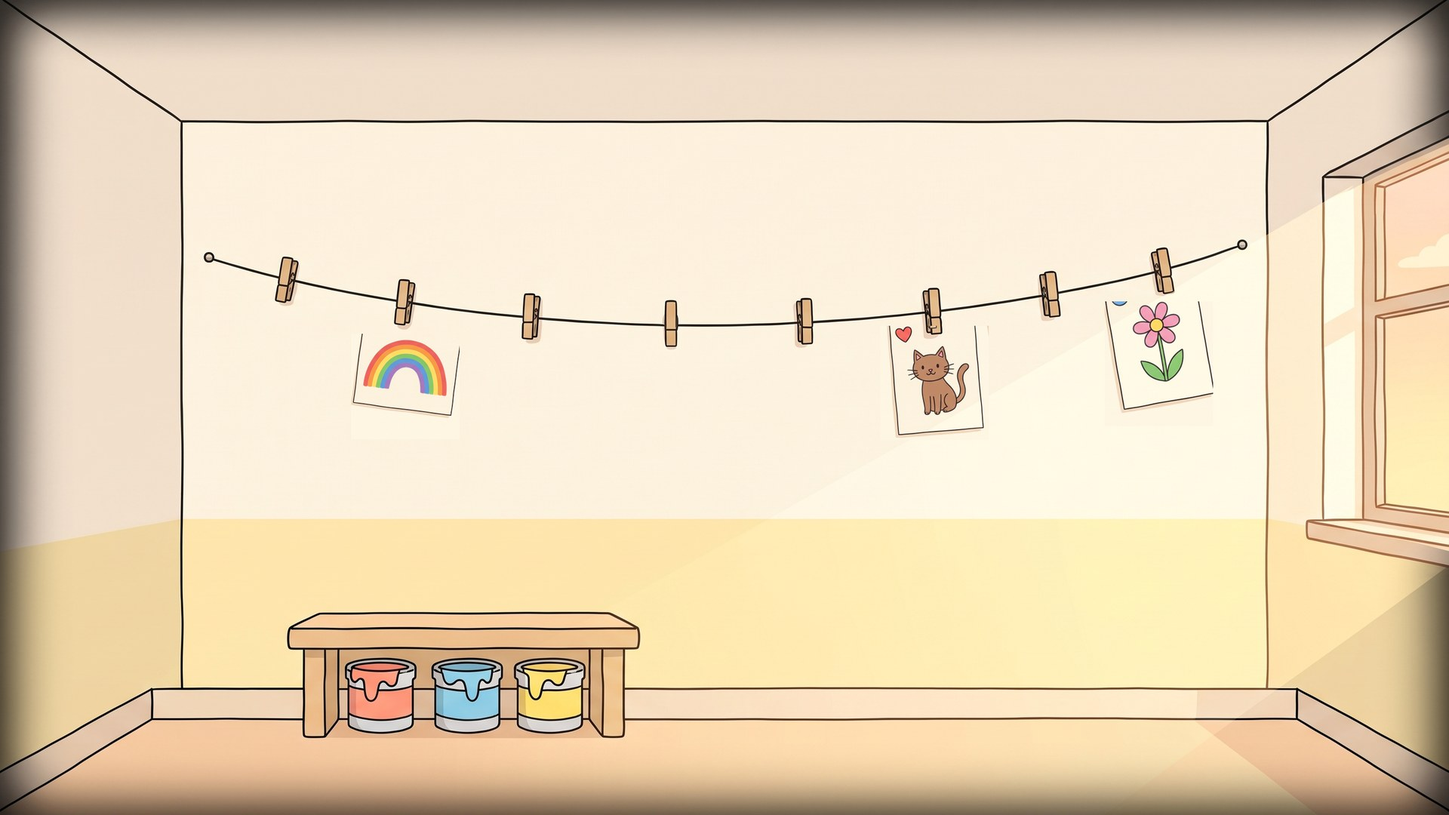
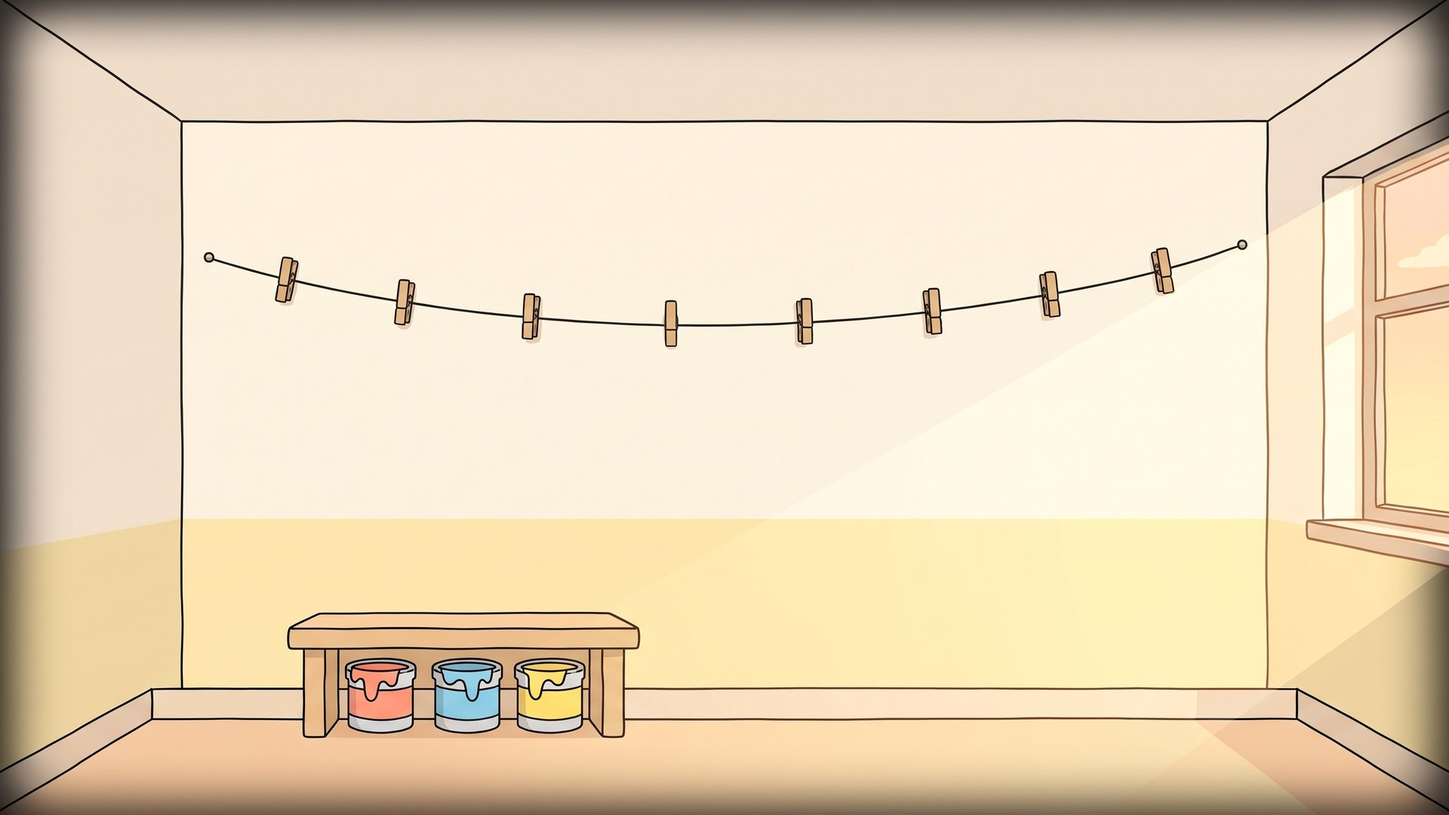
Living background: Captain swims, Nutmeg and Peanut breathe, rain on the flat's windows, steam, balloons and paintings stir
A layer's idle movement (swim, breathe, sway) or code-drawn weather (rain, steam) is redrawn by one gentle loop while the
room is in view, resting under close-ups, the menu, a hidden tab and reduced motion. Captain's drawn fish is painted out of
the tank wall; Zaina's three other paintings become cut-outs on the line.

Claude-Session: https://claude.ai/code/session_01EfdGHqbt9UMLzVmVXYp5s9

diff --git a/next/landscape/index.html b/next/landscape/index.html
@@ -492,7 +492,7 @@ button{font:inherit;color:inherit;cursor:pointer}
 
 <script>
 'use strict';
-const BUILD = '2026-09-30l';
+const BUILD = '2026-09-30m';
 const $ = id => document.getElementById(id);
 
 /* ---------- sizing: the scene fills the screen in landscape, inventory strip under it ---------- */
@@ -544,7 +544,7 @@ function makeLayer(L){
   const st = {img:null, L, anim:null, t0:0}; layerState.set(c, st);
   if (L.inside) preload(L.inside).then(im => { st.inside = im; });
   if (L.draw){ /* drawn by code rather than a picture: a stand-in size, the drawing happens in drawLayer */
-    st.img = {naturalWidth:300, naturalHeight:300}; c.width = Math.round(300*(1+2*PX)); c.height = Math.round(300*(1+PY+PB)); drawLayer(c, 0); return c; }
+    const ratio = (L.h/L.w)*(9/16); st.img = {naturalWidth:300, naturalHeight:Math.round(300*ratio)}; c.width = Math.round(300*(1+2*PX)); c.height = Math.round(300*ratio*(1+PY+PB)); drawLayer(c, 0); return c; }
   preload(L.src).then(img => { if (!img.naturalWidth) return; st.img = img; c.width = Math.round(img.naturalWidth*(1+2*PX)); c.height = Math.round(img.naturalHeight*(1+PY+PB)); drawLayer(c, 0); });
   return c;
 }
@@ -553,7 +553,7 @@ function toCanvas(c, L, px, py){ const [PX, PY, PB] = pads(L); return [ (px - (L
 function drawLayer(c, t){
   const st = layerState.get(c); if (!st || !st.img || !st.img.naturalWidth) return;
   const [PX, PY, PB] = pads(st.L);
-  const {img, L, anim} = st, ctx = c.getContext('2d'), W = img.naturalWidth, H = img.naturalHeight, ox = W*PX, oy = H*PY;
+  const {img, L, anim} = st, ctx = c.getContext('2d'), W = img.naturalWidth, H = img.naturalHeight, ox = W*PX, oy = H*PY, idleT = performance.now()/1000;
   ctx.clearRect(0, 0, c.width, c.height);
   ctx.save();
   if (L.clipBottom != null){ const yClip = toCanvas(c, L, 0, L.clipBottom)[1]; ctx.beginPath(); ctx.rect(0, 0, c.width, yClip); ctx.clip(); }
@@ -604,6 +604,19 @@ function drawLayer(c, t){
     if (st.open || (L.openWhen && L.openWhen())){ ctx.save(); ctx.translate(ox, oy); ctx.scale(0.12, 1); ctx.drawImage(img, 0, 0); ctx.fillStyle = 'rgba(0,0,0,.25)'; ctx.fillRect(0, 0, W, H); ctx.restore(); return; }
     if (L.kind === 'blocks'){ if (S.toppled){ drawBlocks(9); return; } blockShadow(ox + W/2, oy + H - H*0.01, W, 1); }
     if (L.kind === 'drawer' && S.drawerOpen){ drawDrawer(1); return; }
+    if (L.draw === 'rain'){ drawRain(ctx, idleT, ox, oy, W, H, L); return; }
+    if (L.draw === 'steam'){ drawSteam(ctx, idleT, ox, oy, W, H); return; }
+    if (L.idle && !reduceMotion){ /* living background: a slow movement that never stops (4, backlog 16) */
+      const ph = L.phase || 0;
+      if (L.idle === 'swim'){ /* a slow wander across the box, turning at each end, with a little bob; the box is the water, the picture a fraction of it */
+        const P = L.period || 11, u = ((idleT + ph)/P) % 1, k = u < 0.5 ? u*2 : 2 - u*2, e = k*k*(3 - 2*k), facingLeft = u >= 0.5;
+        const fw = W*(L.size || 0.45), fh = fw*(H/W)*(16/9)*(L.w/L.h), x = ox + fw/2 + (W - fw)*e /* the picture keeps its own proportions inside the box */, y = oy + H*(L.depth ?? 0.45) + H*0.035*Math.sin(2*Math.PI*idleT/2.7 + ph);
+        ctx.save(); ctx.translate(x, y); if (facingLeft) ctx.scale(-1, 1); ctx.rotate(0.05*Math.sin(2*Math.PI*idleT/1.9 + ph)); ctx.drawImage(img, -fw/2, -fh/2, fw, fh); ctx.restore(); return; }
+      if (L.idle === 'breathe'){ const k = 1 + (L.amount || 0.012)*Math.sin(2*Math.PI*idleT/(L.period || 2.8) + ph); ctx.save(); ctx.translate(ox + W/2, oy + H); ctx.scale(1, k); ctx.drawImage(img, -W/2, -H); ctx.restore(); return; }
+      if (L.idle === 'sway'){ /* hung from the top: a slow stir in a draught */
+        const a = (L.amount || 0.035)*Math.sin(2*Math.PI*idleT/(L.period || 3.4) + ph) + (L.amount || 0.035)*0.4*Math.sin(2*Math.PI*idleT/(L.period || 3.4)*2.3 + ph*1.7);
+        ctx.save(); ctx.translate(ox + W/2, oy + (L.pivot === 'bottom' ? H : 0)); ctx.rotate(a); ctx.drawImage(img, -W/2, L.pivot === 'bottom' ? -H : 0); ctx.restore(); return; }
+    }
     ctx.drawImage(img, ox, oy);
     if (L.over) L.over(ctx, ox, oy, W, H);
   };
@@ -746,6 +759,35 @@ function drawLayer(c, t){
   finish();
   ctx.restore();
 }
+/* rain on a window: faint streaks running down the pane, a few at a time, with the odd drip that hesitates; the pane is the layer's box */
+function drawRain(ctx, t, ox, oy, W, H, L){
+  const n = L.count || 14; ctx.save(); ctx.lineCap = 'round';
+  for (let i = 0; i < n; i++){ const seed = (i*7919 % 1000)/1000, seed2 = (i*104729 % 1000)/1000, speed = 0.55 + seed2*0.5, len = H*(0.08 + seed*0.14);
+    const u = ((t*speed/ (L.period || 4) + seed) % 1), x = ox + W*(0.04 + ((seed*0.92 + i/n) % 0.92)), y = oy - len + (H + len)*u;
+    ctx.globalAlpha = 0.22*(1 - u*0.5); ctx.strokeStyle = 'rgba(230,240,250,1)'; ctx.lineWidth = Math.max(1, W*0.006); ctx.beginPath(); ctx.moveTo(x, y); ctx.lineTo(x + W*0.006, y + len); ctx.stroke();
+    if (i % 4 === 0){ ctx.globalAlpha = 0.28; ctx.fillStyle = 'rgba(240,248,255,1)'; ctx.beginPath(); ctx.arc(x + W*0.006, y + len, Math.max(1.2, W*0.011), 0, Math.PI*2); ctx.fill(); } }
+  ctx.restore();
+}
+/* steam: three wisps rising from the bottom of the box and fading as they go */
+function drawSteam(ctx, t, ox, oy, W, H){
+  ctx.save(); ctx.lineCap = 'round'; ctx.strokeStyle = 'rgba(255,255,255,1)';
+  for (let i = 0; i < 3; i++){ const u = ((t/3.2 + i/3) % 1), x0 = ox + W*(0.25 + i*0.25), y = oy + H*(1 - u), sw = W*0.08*Math.sin(2*Math.PI*u*1.5 + i);
+    ctx.globalAlpha = 0.28*Math.sin(Math.PI*u); ctx.lineWidth = Math.max(1.5, W*0.05*(0.6 + u)); ctx.beginPath(); ctx.moveTo(x0, y + H*0.18); ctx.quadraticCurveTo(x0 + sw, y + H*0.09, x0 - sw*0.5, y); ctx.stroke(); }
+  ctx.restore();
+}
+/* the living background's own loop: the current view's idle layers are redrawn about twenty times a second while the room is
+   in view; it rests under a close-up, the menu, a hidden tab, and always under reduced motion */
+const reduceMotion = matchMedia('(prefers-reduced-motion:reduce)').matches;
+let idleFrame = null, idleLast = 0;
+function idleTick(now){
+  idleFrame = null; let any = false;
+  if (!reduceMotion && !document.hidden && $('closeup').hidden && $('menu').hidden){
+    if (now - idleLast > 45){ idleLast = now; layerState.forEach((st, c) => { const L = st.L; if (!c.isConnected || st.anim) return; if (L.idle || L.draw === 'rain' || L.draw === 'steam'){ any = true; drawLayer(c, 0); } }); }
+    else any = true;
+  } else { layerState.forEach(st => { if (st.L.idle || st.L.draw === 'rain' || st.L.draw === 'steam') any = true; }); }
+  if (any) idleFrame = requestAnimationFrame(idleTick);
+}
+function startIdle(){ if (!idleFrame && !reduceMotion) idleFrame = requestAnimationFrame(idleTick); }
 function tick(){
   let live = false; const now = performance.now();
   layerState.forEach((st, c) => {
@@ -794,6 +836,7 @@ function render(){
   layerState.clear();
   (LAYERS[v] || []).forEach(L => { if (L.hideWhen && L.hideWhen()) return; if (L.showWhen && !L.showWhen()) return; hots.appendChild(makeLayer(L)); });
   if (STAGE.overlays && STAGE.overlays[v]) hots.appendChild(STAGE.overlays[v]()); /* things the game draws over the picture, so wall and close-up agree */
+  startIdle();
   /* bigger targets first, so a small thing on a big thing (the mug on the desk) stays tappable */
   [...HOTS[v]].sort((a, b) => b.w*b.h - a.w*a.h).forEach(h => {
     if (h.hideWhen && h.hideWhen()) return;
@@ -1317,10 +1360,10 @@ function boot(){
   playSplash().then(showTitle);
 }
 </script>
-<script src="stages/school.js?v=2026-09-30l"></script>
-<script src="stages/packing.js?v=2026-09-30l"></script>
-<script src="stages/eschool.js?v=2026-09-30l"></script>
-<script src="stages/zschool.js?v=2026-09-30l"></script>
+<script src="stages/school.js?v=2026-09-30m"></script>
+<script src="stages/packing.js?v=2026-09-30m"></script>
+<script src="stages/eschool.js?v=2026-09-30m"></script>
+<script src="stages/zschool.js?v=2026-09-30m"></script>
 <script>boot();</script>
 </body>
 </html>

diff --git a/next/landscape/stages/eschool.js b/next/landscape/stages/eschool.js
@@ -19,12 +19,13 @@ const HOTS = {
   p1:[
     {id:'e_board', l:31, t:32, w:38, h:38, label:'Whiteboard: GOODBYE 2P!', sound:'tap'},
     {id:'e_desk', l:72, t:70, w:25, h:24, label:'Miss Okafor’s desk', sound:'knock'},
+    {id:'e_balloons', l:69.5, t:53, w:8, h:19, label:'Balloons tied to the desk', sound:'leaf', anim:'swing', layer:'balloons'},
     {id:'e_mug', l:73.5, t:66, w:5, h:7, label:'Miss Okafor’s mug', sound:'tap'},
     {id:'e_pencils', l:91, t:64, w:4.5, h:8, label:'Pot of pencils', sound:'tap'},
     {id:'e_card', l:79, t:55, w:9, h:17, label:'The goodbye card on the desk', sound:'paper', anim:'lift', layer:'card', key:true}],
   p2:[
     {id:'e_window', l:15, t:20, w:29, h:44, label:'Window', sound:'tap'},
-    {id:'e_tank', l:17, t:60, w:11, h:16, label:'Captain, the class goldfish', sound:'leaf', key:true},
+    {id:'e_tank', l:17, t:60, w:11, h:16, label:'Captain, the class goldfish', sound:'leaf', key:true, anim:'wobble', layer:'fish'},
     {id:'e_castle', l:30, t:62, w:10, h:14, label:'Sandcastle ornament', sound:'tap'},
     {id:'e_run', l:54, t:29, w:33, h:38, label:'The marble run', sound:'knock', key:true},
     {id:'e_bell', l:77.5, t:66.5, w:6, h:10, label:'The little bell at the bottom of the run', sound:'tick'},
@@ -64,8 +65,11 @@ const HOTS = {
 };
 const cog = (n, l, t) => ({src:A+'layer-cog.png', group:'cog'+n, l, t, w:2, h:3.56, hideWhen:() => S.cogs.includes(n)});
 const LAYERS = {
-  p1:[{src:A+'layer-card.png', group:'card', l:80.5, t:57.5, w:5.6, h:15.4, shadow:.5, hideWhen:() => S.done}],
-  p2:[{src:A+'layer-straight.png', group:'straight', l:58.5, t:74.2, w:7, h:6.1, shadow:.4, hideWhen:() => got('straight') || placed('straight')}],
+  p1:[{src:A+'layer-card.png', group:'card', l:80.5, t:57.5, w:5.6, h:15.4, shadow:.5, hideWhen:() => S.done},
+      {src:A+'layer-balloons.png', group:'balloons', l:70.5, t:54.5, w:6, h:16.5, idle:'sway', pivot:'bottom', amount:.04, period:4.2}],
+  /* Captain: his box is the water in the tank; he wanders across it and back, behind the tank's glass */
+  p2:[{src:A+'layer-fish.png', group:'fish', l:17.8, t:64.6, w:7.4, h:8.2, idle:'swim', size:.46, depth:.5, period:12, glass:[17.3, 60.5, 8.2, 14.6], tone:'saturate(.85) brightness(.96)'},
+      {src:A+'layer-straight.png', group:'straight', l:58.5, t:74.2, w:7, h:6.1, shadow:.4, hideWhen:() => got('straight') || placed('straight')}],
   p4:[cog(1, 62.5, 52.7)],
   g1:[cog(2, 51.8, 59.5)],
   g2:[{src:A+'layer-curve.png', group:'curve', l:33, t:64, w:6, h:12.5, shadow:.4, hideWhen:() => got('curve') || placed('curve')}],
@@ -205,6 +209,7 @@ const USES = {
 function act(id){
   switch(id){
     case 'e_board': say('GOODBYE 2P! in five colours. Miss Okafor did the balloons.'); break;
+    case 'e_balloons': say('Three balloons, tied to the desk leg. They bob when the door opens.'); break;
     case 'e_desk': say('Miss Okafor’s desk, tidy for once. ' + (S.done ? '' : 'Your card is on it.')); break;
     case 'e_mug': say('WORLD’S OKAYEST TEACHER, says the mug. She thinks it’s funny.'); break;
     case 'e_pencils': say('Pencils, sharpened. Twenty-nine of them, one each.'); break;

diff --git a/next/landscape/stages/packing.js b/next/landscape/stages/packing.js
@@ -86,19 +86,20 @@ const HOTS = {
 const moth = (n, l, t) => ({src:A+'layer-moth.png', group:'moth'+n, l, t, w:2.4, h:2.63, hideWhen:() => S.moths.includes(n)});
 /* the things packed so far are drawn inside the open suitcase on the bed */
 const inCase = (key, l, t, w, h) => ({src:A+'layer-'+key+'.png', group:'in'+key, l, t, w, h, shadow:.5, showWhen:() => packed(key)});
+const rain = (l, t, w, h) => ({draw:'rain', group:'rain', l, t, w, h, count:12});
 const LAYERS = {
   b1:[inCase('jumper', 45.5, 60.5, 4.5, 9.85), inCase('passports', 44, 65.5, 5, 7.1), inCase('torch', 49.5, 64.5, 6.5, 7.8), inCase('present', 53.5, 66, 3.4, 6.5)],
   b2:[{src:A+'layer-list.png', group:'list', l:27.5, t:38, w:8, h:19, lit:.5}],
-  b3:[moth(2, 33.5, 18.5), {src:A+'layer-pencilcase.png', group:'pencilcase', l:53.5, t:65.5, w:6.5, h:5.4, shadow:.5, hideWhen:() => got('tape') || S.tapeGone}],
+  b3:[rain(35, 19, 31, 43), moth(2, 33.5, 18.5), {src:A+'layer-pencilcase.png', group:'pencilcase', l:53.5, t:65.5, w:6.5, h:5.4, shadow:.5, hideWhen:() => got('tape') || S.tapeGone}],
   b4:[moth(1, 57, 17.6), {src:A+'layer-jumper.png', group:'jumper', l:52, t:30.5, w:7, h:15.3, hideWhen:() => got('jumper') || packed('jumper')}],
-  l1:[{src:A+'layer-key.png', group:'key', l:73.4, t:34.8, w:2.8, h:7.97, hideWhen:() => S.keyTaken},
+  l1:[rain(34, 13, 33, 42), {src:A+'layer-key.png', group:'key', l:73.4, t:34.8, w:2.8, h:7.97, hideWhen:() => S.keyTaken},
       {src:A+'layer-paper.png', group:'paper', l:60, t:46, w:2.4, h:19.7, shadow:.5, hideWhen:() => S.paperGone}],
   l2:[{src:A+'layer-snowglobe.png', group:'snowglobe', l:20, t:32.3, w:5.5, h:11.2, shadow:.6}, {src:A+'layer-orchid.png', group:'orchid', l:61, t:30.6, w:5, h:12.95, shadow:.5}, moth(3, 33, 91.5)],
   l4:[moth(4, 59.8, 44)],
-  k1:[{src:A+'layer-mum.png', group:'mum', l:40, t:31, w:17, h:61.8, shadow:.7}],
+  k1:[{draw:'steam', group:'steam', l:30, t:44, w:6, h:9}, {src:A+'layer-mum.png', group:'mum', l:40, t:31, w:17, h:61.8, shadow:.7}],
   k2:[moth(5, 47, 23.4), {src:A+'layer-postcard.png', group:'postcard', l:44, t:52, w:7, h:9.7},
       {src:A+'layer-drawing.png', group:'drawing', l:45.5, t:64, w:9, h:13.5, over:drawSymbols}],
-  k4:[moth(6, 77, 24.6)]
+  k4:[rain(41, 29, 19, 45), moth(6, 77, 24.6)]
 };
 const EXTRA = {living:[A+'closeup-hooks.jpg', A+'closeup-drawer.jpg', A+'closeup-drawer-open.jpg', A+'layer-drawerfront.png', A+'closeup-fort.jpg', A+'closeup-infort.jpg'], kitchen:[A+'closeup-jars.jpg']};
 

diff --git a/next/landscape/stages/zschool.js b/next/landscape/stages/zschool.js
@@ -40,8 +40,11 @@ const LAYERS = {
       /* once put away, her things show inside her cubby */
       {src:A+'layer-painting.png', group:'inpainting', l:35.8, t:75.6, w:3.4, h:7.6, showWhen:() => put('painting')},
       {src:A+'layer-bottle.png', group:'inbottle', l:33.4, t:77, w:1.5, h:6.4, shadow:.4, showWhen:() => put('bottle')}],
-  z2:[{src:A+'layer-painting.png', group:'painting', l:42.3, t:40.5, w:7.5, h:16.7, hideWhen:() => got('painting') || put('painting')}],
-  z4:[{src:A+'layer-peanut.png', group:'peanut', l:16.5, t:64.5, w:7.2, h:14.1, shadow:.6}, {src:A+'layer-misslin.png', group:'misslin', l:70, t:57.3, w:6, h:30.7, shadow:.5}]
+  z2:[{src:A+'layer-painting-rainbow.png', group:'p1', l:24.3, t:41, w:7.5, h:12.9, idle:'sway', phase:0.4},
+      {src:A+'layer-painting.png', group:'painting', l:42.3, t:40.5, w:7.5, h:16.7, idle:'sway', phase:1.9, hideWhen:() => got('painting') || put('painting')},
+      {src:A+'layer-painting-cat.png', group:'p3', l:60.8, t:40, w:7.5, h:13.9, idle:'sway', phase:3.1},
+      {src:A+'layer-painting-flower.png', group:'p4', l:76.3, t:37, w:7.5, h:15.2, idle:'sway', phase:4.6}],
+  z4:[{src:A+'layer-peanut.png', group:'peanut', l:16.5, t:64.5, w:7.2, h:14.1, shadow:.6, idle:'breathe', amount:.014, period:3.2}, {src:A+'layer-misslin.png', group:'misslin', l:70, t:57.3, w:6, h:30.7, shadow:.5}]
 };
 const EXTRA = {kindy:[A+'closeup-bottles.jpg', A+'closeup-paintings.jpg', A+'closeup-instruments.jpg', A+'poster.jpg', A+'layer-sticker.png']};
 /* Zaina's mark and her portrait, drawn on her cubby; the other cubbies get their marks */

diff --git a/next/landscape/stages/school.js b/next/landscape/stages/school.js
@@ -162,7 +162,7 @@ const LAYERS = {
   c4:[
     {src:'../art/classroom/layer-envelope.png', group:'envelope', l:50.5, t:66.5, w:6.5, h:5.5, hideWhen:() => S.got.includes('envelope')},
     /* the hamster lives inside the cage: it is clipped to the cage and the cage's glass is drawn faintly over it */
-    {src:'../art/classroom/layer-hamster.png', group:'hamster', l:68.1, t:56.3, w:3.9, h:5.5, glass:[67.3, 52.2, 10.2, 9.3], shadow:.5, tone:'saturate(.72) brightness(.94) contrast(.92)'},
+    {src:'../art/classroom/layer-hamster.png', group:'hamster', l:68.1, t:56.3, w:3.9, h:5.5, glass:[67.3, 52.2, 10.2, 9.3], shadow:.5, tone:'saturate(.72) brightness(.94) contrast(.92)', idle:'breathe', amount:.02, period:2.4},
     {src:'../art/classroom/layer-backpack.png', group:'backpack', l:58.2, t:78.5, w:7, h:15.3, shadow:.8}],
   /* corridor */
   h1:[

diff --git a/CLAUDE.md b/CLAUDE.md
@@ -35,8 +35,8 @@ The owner is a non-technical but AI-savvy builder working from a Chromebook. Exp
 - `icon-192.png`, `icon-512.png` — moth icon (also used as maskable).
 - `next/index.html` — the children's version being built, not yet what players get. It opens on the choose-a-child screen (with the fiction notice under "About this game"). All nine Part 1 stages are playable: Mary, Elliot and Zaina each have last day of school, packing day and the flight. The engine is in this file, with Mary's school and packing stages; the rest live in `next/stages/`. Each stage is one object (for example `STAGE_SCHOOL`, or the `stage` passed to `registerStage`) with its `rooms` (each room's views in turning order), `doors` (door → room and view you arrive at), `start`, `items`, `uses`, `fresh` state, `draw`, `act`, `hints`, `hinter`, optional `hintStyle:'point'` (for Zaina: the moth turns to the target, pulses it and says one short line) and `ending`; the engine handles turning, doors, the inventory, hints and endings. `STORYLINES` lists each child's three stages; saves are per child in localStorage (`mothhouse.next.v1`). Each view is a `<g class="view" id="v-…">` in the one SVG; hotspot `data-id`s must be unique across all stages (school ones start with `s_`, Elliot's `e_`, Zaina's `z_`, the flight's `fl_`). A hotspot with `data-stage="…"` only shows in that stage, which is how the shared flat and cabin carry different children's things. Close-ups are overlays inside `.stage`. Keep hotspots away from the bottom corners, where the turn arrows sit. It doesn't register the service worker. When the owner approves it, it replaces the live game.
 - `next/stages/mary-flight.js`, `elliot.js`, `zaina.js` — stage plugins: `registerStage(key, {css, views, closeups, boxes, stage, setup})`. The engine injects `views` into the SVG, `closeups` before `#endUI`, merges `boxes` into `BOXES`, then runs `setup()` after the bookcases are drawn (use it to add hotspots to shared views).
-- `next/landscape/index.html` — the landscape engine (no rooms of its own; each stage is a plugin in `next/landscape/stages/` that calls `registerStage`, see `next/PLAYBOOK.md` 4d). `stages/school.js` is Mary's last day of school, `stages/packing.js` her packing day; the school's last-bell card leads into packing on the same save. `stages/eschool.js` is Elliot's last day (Classroom 2P and the playground: the marble run's three pieces, the jumper in lost property, three hidden cogs) and `stages/zschool.js` Zaina's party day (one room, her yellow star: bottle, painting, the goodbye song, Miss Lin's sticker); a stage names its `child`, Zaina's uses `hintStyle:'point'` (the moth flies to the next thing: `pointNext`) and speaks every tap line (`line`, its `lines` map, `miss`); see `next/PLAYBOOK.md` 4k. The cog's Family tab switches child mid-game as a story beat (`switchChild`, `meanwhileCard`, each stage's `meanwhile` line; `next/PLAYBOOK.md` 4l). The game opens with the OG Entertainment start-up (`#splash`, drawn in CSS), then the title screen (`#title`: Continue, New game, sound, About with the fiction notice) and the choose-a-child screen (`#choose`, cards from `CHILDREN`, each child's `first` stage). Saves are per child (`keyFor(child)`) with a last-played pointer. For testing, `?stage=packing` (or any stage key: `eschool`, `zschool`) on the address starts that stage directly as its child, skipping the start-up and title; give the owner a link with it whenever a later stage changes. The notes below describe the engine and the school stage. A 16:9 scene, small turn arrows halfway up each side, the inventory as ten slots under the scene, close-ups brought forward over the blurred room, a "turn your phone" screen in portrait. Tap targets are picture percentages in `HOTS`; `sound` names the tap effect and `anim` + `layer` name a movement and the cut-out group it moves. Moving things are cut-outs in `LAYERS` (per view: `layer-*.png`, placed in picture percentages, drawn on a canvas each; the wall pictures have them removed). The animator (`drawLayer`) bends, swings, lifts, hops, wobbles or pops a cut-out in slices for a moment. Sounds are made in the browser with Web Audio and start after the first tap; music plays the `TRACK` mp3 (Lyria), with the composed music-box waltz (`TUNE`) as fallback; both switch off from the menu. A layer's `shadow` draws a soft contact shadow under it (anything standing on a surface gets one, so nothing floats); `glass` clips it inside a box and draws the wall's glass faintly over it (Nutmeg in his cage). The timetable on the wall is drawn by `wallTimetable()` from the real grid, so wall and close-up always agree. Every picture is preloaded before the room opens. Cut-out boxes must keep the picture's own proportions (h = w × pictureH/pictureW × 16/9) or the cut-out is squashed. Inventory icons are pictures in `next/art/classroom/item-*.png` (generated on white, background keyed out). Rooms are in `ROOMS` (views in turning order; a long room lists its `long` pairs, two views of one wall that pan instead of turn), walls in `WALLS`, doors in `DOORS` (door hotspot → room and the view you arrive facing, away from the door). All five rooms of Mary's school stage are built: classroom, corridor (lockers; library doors; notice board and the open doorway to the hall; the open doorways to 5H and the art room), library (a square room: `ln` Science+Music, `le` window and storytime chair, `ls` entrance and desk, `lw` Art, trolley and Stories), art room (`an` drying rack with the moth painting, `ae` paint pots and the padlocked cupboard, `as` doorway and clay animals, `aw` sink, brush jar and three aprons) and hall (`hn` stage with the chime bars and the little drawer, `he` STEM cabinet with the star padlock, `hs` doors and bench, `hw` indoor playground with the block stack and slide). Three parallel trails (see `next/PLAYBOOK.md` 4c): star key from the apron → STEM padlock → slip; beater from under the blocks → chime bars in the order on the music page → stage drawer → slip; moth's three stripes → colour dials on the paint cupboard → slip. Then the timetable, the locker and the last-bell ending, plus the bonus riddle. Items are picked up in hand and used by tapping where they go (`USES`). The moth button (or Nutmeg) opens Mary's notebook (`openNotebook`): the riddles as a to-do list with progress, tap one for that trail's tiered hint, plus a "Noticed" line that records clues seen (`S.seen`). A long press on the room, or "Show what I can tap" in the cog's panel, glows every hotspot for a moment (`reveal`). The cog (`#menuBtn` in a room, `#tMenu` on the title) opens one tabbed panel (`openMenu`): settings with separate music and effects volumes (`vol`, `setVolume`), help with the resets behind `confirmThen`, and about. `play.js` in the session scratchpad played the whole puzzle by script; keep a script like it for every stage. Saves are keyed by build (`mothhouse.landscape.<BUILD>`).
-- `next/art/elliot/` — Elliot's stage 1: walls `p1`–`p4` (classroom) and `g1`–`g4` (playground), cut-outs (`layer-straight/curve/zigzag/card/jumper/peg/cog/balloons.png`), close-ups (`closeup-run/lost/pegs/chalk.jpg`). `next/art/zaina/` — Zaina's stage 1: walls `z1`–`z4`, cut-outs (`layer-bottle/painting/sticker/peanut/misslin.png`), close-ups (`closeup-bottles/paintings/instruments.jpg`, `poster.jpg`). Prompts in `next/art/classroom/PROMPTS.md`.
+- `next/landscape/index.html` — the landscape engine (no rooms of its own; each stage is a plugin in `next/landscape/stages/` that calls `registerStage`, see `next/PLAYBOOK.md` 4d). `stages/school.js` is Mary's last day of school, `stages/packing.js` her packing day; the school's last-bell card leads into packing on the same save. `stages/eschool.js` is Elliot's last day (Classroom 2P and the playground: the marble run's three pieces, the jumper in lost property, three hidden cogs) and `stages/zschool.js` Zaina's party day (one room, her yellow star: bottle, painting, the goodbye song, Miss Lin's sticker); a stage names its `child`, Zaina's uses `hintStyle:'point'` (the moth flies to the next thing: `pointNext`) and speaks every tap line (`line`, its `lines` map, `miss`); see `next/PLAYBOOK.md` 4k. The cog's Family tab switches child mid-game as a story beat (`switchChild`, `meanwhileCard`, each stage's `meanwhile` line; `next/PLAYBOOK.md` 4l). The game opens with the OG Entertainment start-up (`#splash`, drawn in CSS), then the title screen (`#title`: Continue, New game, sound, About with the fiction notice) and the choose-a-child screen (`#choose`, cards from `CHILDREN`, each child's `first` stage). Saves are per child (`keyFor(child)`) with a last-played pointer. For testing, `?stage=packing` (or any stage key: `eschool`, `zschool`) on the address starts that stage directly as its child, skipping the start-up and title; give the owner a link with it whenever a later stage changes. The notes below describe the engine and the school stage. A 16:9 scene, small turn arrows halfway up each side, the inventory as ten slots under the scene, close-ups brought forward over the blurred room, a "turn your phone" screen in portrait. Tap targets are picture percentages in `HOTS`; `sound` names the tap effect and `anim` + `layer` name a movement and the cut-out group it moves. Moving things are cut-outs in `LAYERS` (per view: `layer-*.png`, placed in picture percentages, drawn on a canvas each; the wall pictures have them removed). The animator (`drawLayer`) bends, swings, lifts, hops, wobbles or pops a cut-out in slices for a moment; a layer's `idle` (`swim`, `breathe`, `sway`) or `draw:'rain'|'steam'` keeps it gently alive all the time (`idleTick`; see `next/PLAYBOOK.md` section 4). Sounds are made in the browser with Web Audio and start after the first tap; music plays the `TRACK` mp3 (Lyria), with the composed music-box waltz (`TUNE`) as fallback; both switch off from the menu. A layer's `shadow` draws a soft contact shadow under it (anything standing on a surface gets one, so nothing floats); `glass` clips it inside a box and draws the wall's glass faintly over it (Nutmeg in his cage). The timetable on the wall is drawn by `wallTimetable()` from the real grid, so wall and close-up always agree. Every picture is preloaded before the room opens. Cut-out boxes must keep the picture's own proportions (h = w × pictureH/pictureW × 16/9) or the cut-out is squashed. Inventory icons are pictures in `next/art/classroom/item-*.png` (generated on white, background keyed out). Rooms are in `ROOMS` (views in turning order; a long room lists its `long` pairs, two views of one wall that pan instead of turn), walls in `WALLS`, doors in `DOORS` (door hotspot → room and the view you arrive facing, away from the door). All five rooms of Mary's school stage are built: classroom, corridor (lockers; library doors; notice board and the open doorway to the hall; the open doorways to 5H and the art room), library (a square room: `ln` Science+Music, `le` window and storytime chair, `ls` entrance and desk, `lw` Art, trolley and Stories), art room (`an` drying rack with the moth painting, `ae` paint pots and the padlocked cupboard, `as` doorway and clay animals, `aw` sink, brush jar and three aprons) and hall (`hn` stage with the chime bars and the little drawer, `he` STEM cabinet with the star padlock, `hs` doors and bench, `hw` indoor playground with the block stack and slide). Three parallel trails (see `next/PLAYBOOK.md` 4c): star key from the apron → STEM padlock → slip; beater from under the blocks → chime bars in the order on the music page → stage drawer → slip; moth's three stripes → colour dials on the paint cupboard → slip. Then the timetable, the locker and the last-bell ending, plus the bonus riddle. Items are picked up in hand and used by tapping where they go (`USES`). The moth button (or Nutmeg) opens Mary's notebook (`openNotebook`): the riddles as a to-do list with progress, tap one for that trail's tiered hint, plus a "Noticed" line that records clues seen (`S.seen`). A long press on the room, or "Show what I can tap" in the cog's panel, glows every hotspot for a moment (`reveal`). The cog (`#menuBtn` in a room, `#tMenu` on the title) opens one tabbed panel (`openMenu`): settings with separate music and effects volumes (`vol`, `setVolume`), help with the resets behind `confirmThen`, and about. `play.js` in the session scratchpad played the whole puzzle by script; keep a script like it for every stage. Saves are keyed by build (`mothhouse.landscape.<BUILD>`).
+- `next/art/elliot/` — Elliot's stage 1: walls `p1`–`p4` (classroom) and `g1`–`g4` (playground), cut-outs (`layer-straight/curve/zigzag/card/jumper/peg/cog/balloons/fish.png`), close-ups (`closeup-run/lost/pegs/chalk.jpg`). `next/art/zaina/` — Zaina's stage 1: walls `z1`–`z4`, cut-outs (`layer-bottle/painting/painting-rainbow/painting-cat/painting-flower/sticker/peanut/misslin.png`), close-ups (`closeup-bottles/paintings/instruments.jpg`, `poster.jpg`). Prompts in `next/art/classroom/PROMPTS.md`.
 - `next/art/voice/<key>.mp3` — the moth's recorded lines (hints, notes, cards, intros, postcards), played by key with `speak()`; see `next/PLAYBOOK.md` 4h for how they are made and re-made. `next/art/portraits/moth.png` and `moth-speak.png` are the moth's two poses.
 - `next/art/postcards/school.jpg`, `flat.jpg`, `eschool.jpg`, `zschool.jpg` — the picture on the child's postcard home at the end of each stage (`showEnd` draws the card; `card` and `postcard` in each stage, see `next/PLAYBOOK.md` 4f).
 - `next/art/music/title.mp3`, `classroom.mp3`, `flat.mp3`, `eschool.mp3`, `zschool.mp3` — music made with Google's Lyria through the Gemini key (see the README there): the title theme and one track per stage (`track` in the stage), cross-faded by `setTrack`; ambient sound (`ambient` in the stage: `rain` or `school`) is made in the browser. The built-in composed tune is the fallback. A stage opens with a loading bar (`loadWithBar`) after only its first view's pictures.

diff --git a/next/PLAYBOOK.md b/next/PLAYBOOK.md
@@ -42,6 +42,7 @@ The working rules for every room in the landscape game, distilled from the owner
 - Most tappable things move; the ones that don't (a whiteboard, a radiator, a window) still make a sound and say a line. A door knob that cannot be cut out cleanly stays still rather than faking it.
 - Under reduce-motion, tap feedback still plays, shorter and gentler; only ambient motion (the sparkle) stops.
 - Some of the background is alive on its own, without a tap: only where a real thing would move, slow and small, never distracting, and never the sole carrier of a clue (a fish drifting in its tank, rain on a window, bunting stirring). Under reduce-motion it rests. Most of a room stays still; one or two living things per view is plenty (owner, 30 Sept 2026; backlog item 16).
+- Built in 2026-09-30m: a layer's `idle` is `swim` (the layer's box is the water; `size` is the picture's share of it, `depth` its height, `period` the crossing; it turns at each end, bobs, and sits behind `glass` like anything in a tank), `breathe` (a slow stretch from the base: Nutmeg, Peanut) or `sway` (a stir from the top, or from the bottom with `pivot:'bottom'` for balloons on strings; `phase` staggers neighbours). Weather is code-drawn: `draw:'rain'` runs faint streaks down a box the size of the pane, `draw:'steam'` lifts three wisps. One loop (`idleTick`) redraws the current view's living layers about twenty times a second and rests under a close-up, the menu, a hidden tab and reduced motion. The first living things: Captain in his tank (his drawn fish painted out of the wall), Nutmeg, Peanut, rain on the flat's three windows, steam off the toaster, the 2P balloons tied to Miss Okafor's desk, and the four paintings on Zaina's line (now cut-outs).
 - Anything with an openable part (a drawer, a cupboard, a lid, a box, a wardrobe) opens and closes on a tap, before and after what was inside has been taken, with its own sound, and stays as you left it on the wall and in the close-up. An empty open drawer is still a drawer. Doorways between rooms are exempt: you walk through them (owner, 30 Sept 2026; backlog item 15).
 - Tap animations must never be skipped silently on the owner's device: the tablet reports reduce-motion, and the early version showed nothing at all.
 
@@ -207,7 +208,7 @@ The owner's brief: finish the feel and navigation before more levels. Inspiratio
 ### Reranked, 30 Sept 2026 (evening), impact against effort, and what can be built before the key is topped up
 
 1. ~~**12, hands-on close-ups, on one moment: Dad's stuck drawer as lift-then-pull, beside the room.**~~ Built in 2026-09-30l (rule in 4j); the owner judges it, then the padlock dials, the paint dials and the marble cup follow the same way.
-2. **16, living background.** The engine loop and the first six living things from cut-outs we have (Captain from the scratchpad, rain on the flat's windows, the 2P balloons, Zaina's bunting and paintings, Nutmeg's breathing). Two days, no key.
+2. ~~**16, living background.**~~ Built in 2026-09-30m (rule in section 4): Captain, Nutmeg, Peanut, rain, steam, balloons, paintings. Bunting and the plane past the window want cut-outs later.
 3. **13, the How to play page.** Half a day; its pictures cut from art we have.
 4. **14, the comic intro's page-turner** with the postcards as stand-in panels, so the real panels drop in the day the key is back. A day.
 5. **11, the opening gestures** for the two we can cut from existing walls (the flat's curtains, the classroom blind); the rest with the key.
@@ -251,3 +252,4 @@ The owner's brief: finish the feel and navigation before more levels. Inspiratio
 30. A fourth video: a drawer that opens, gives up its phone, stays open and empty, closes and opens again. "I generally like that all doors and drawers can be opened and closed even if there was an item removed. Adds to the sense of realism. I don't need navigation between rooms to work in this manner, but wall items like cupboards, drawers and similar which have openable facets" (owner, 30 Sept 2026). → backlog item 15 and the rule in section 4.
 31. A fifth video: piranhas that keep swimming in their tank while you look. "What about moving parts of what is ordinarily static background… only where relevant, realistic and applicable. Some could be things the player needs to get items from, but others could just be background elements like the weather outside behind the window" (owner, 30 Sept 2026). → backlog item 16 and the rule in section 4.
 32. "Just added more credits to Gemini. Check and start with highest WSJF tasks" (owner, 30 Sept 2026). → build 2026-09-30l: the top-up list cleared (close-ups, postcards, tracks, voice), and the drawer as the first hands-on close-up beside the room (4j).
+33. "Go" on the living background (owner, 30 Sept 2026). → build 2026-09-30m, rule in section 4.

diff --git a/next/art/classroom/PROMPTS.md b/next/art/classroom/PROMPTS.md
@@ -114,7 +114,7 @@ Twelve walls from a home version of the landscape style text ("a family's flat i
 
 Twelve walls at 2K with one finished school wall as the style reference. Elliot's Classroom 2P (`next/art/elliot/p1`–`p4`): the whiteboard with GOODBYE 2P! and balloons and Miss Okafor's desk (bare: the card is a cut-out); the window wall with Captain's tank, the wooden marble run with three gaps, an empty tray and the bell; the coat rail with five BLANK name cards, the party table and the open doorway to the playground; the bookcase and the robot. The playground (`g1`–`g4`): the goal, bench and open lost-property box; the sandpit (empty: the curved piece is a cut-out) and climbing frame; the wooden door back, standing open, the tap and three flower tubs (the first try had a glass door with an OPEN sign, because the prompt said "an OPEN glass door"; say "standing wide open" and "no sign" instead); the chalk wall with the class's drawing of the finished run, blue straight piece at the top, red curve, yellow zigzag, and a bell. Zaina's Little Waves (`next/art/zaina/z1`–`z4`): the cubbies with round blank marks and an empty shelf; the drying line with empty pegs; the music corner with the poster (drum, shaker, bell, xylophone) and the same four on the shelf; the party table, cushion and bunting (Miss Lin is a cut-out, drawn from behind).
 
-Cut-outs on white, keyed and quantised: the three run pieces (blue straight, red curve, yellow zigzag), the card with a rocket, balloons, a brass cog, Elliot's orange jumper with a rocket badge, the rocket peg card; Zaina's sky-blue bottle with a yellow star, her painting (sun, house, elephant, star sticker), the holographic moth sticker, Peanut the elephant, Miss Lin from behind (short dark hair, coral cardigan, blue skirt). A fish and a robot were also made but the walls already carry them, so they were not kept.
+Cut-outs on white, keyed and quantised: the three run pieces (blue straight, red curve, yellow zigzag), the card with a rocket, balloons, a brass cog, Elliot's orange jumper with a rocket badge, the rocket peg card; Zaina's sky-blue bottle with a yellow star, her painting (sun, house, elephant, star sticker), the holographic moth sticker, Peanut the elephant, Miss Lin from behind (short dark hair, coral cardigan, blue skirt). A robot was also made but the wall already carries one. The fish (Captain) became a swimming cut-out for the living background, and the drawn fish was painted out of the tank with the water colour; the three paintings that are not Zaina's were cut from the paintings close-up and hang as swaying cut-outs, the wall's line left bare.
 
 Close-ups 16:9: the marble run board with three identical gaps and the bell; the bottle shelf; the drying line; the lost-property box with four folded jumpers; the instrument shelf. The pegs close-up and the chalk close-up are crops of their walls; the poster is a crop of its wall. The credits ran out (HTTP 402) before the corrected close-ups could be made; once topped up the same evening they were generated properly: the bottle shelf as red triangle, sky-blue star, purple heart, green circle (and the wall's shelf recomposited in the same order, Zaina's bottle still a cut-out), and the box with green cat, orange rocket, blue car, purple flower. Postcards 3:2: Elliot's, "a sunny classroom corner with the marble run, a marble rolling along the top track and the bell, balloons tied to a chair, the goldfish tank by the window, and a small orange jumper with a rocket badge folded on the chair"; Zaina's, "a bright kindergarten party corner with bunting, a low round table with a cake with three candles and paper cups, a small grey soft-toy elephant on a pink cushion, a sky-blue water bottle with a yellow star sticker, a child's painting of a sun and an elephant pegged on a string, and a little wooden xylophone".
 
